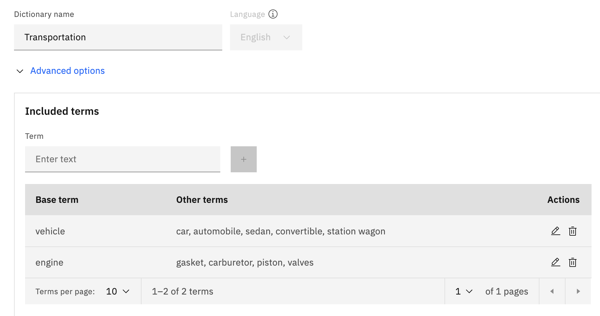
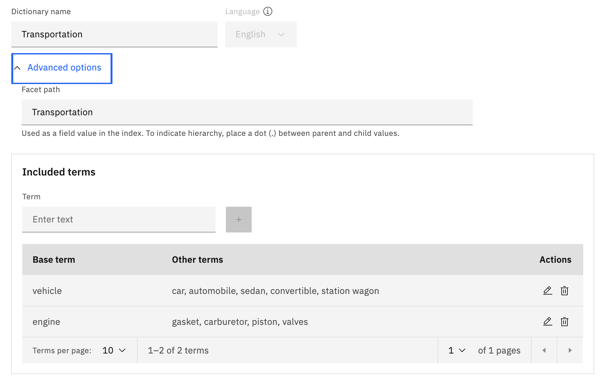
more fixes

diff --git a/domain-dictionary.md b/domain-dictionary.md
@@ -24,15 +24,25 @@ To add dictionary terms one by one, complete the following steps:
 
 1.  From the *Teach domain concepts* section of the *Improvement tools* panel, choose **Dictionaries**.
 1.  Click **New**.
-1.  Name your dictionary, and then choose the language.
-1.  **Optional**: Expand *Advanced options*, and specify edit the facet name for the dictionary. Facets are used to categorize documents. A user can choose a facet type to narrow their search. The dictionary name in lowercase is used as the facet name by default. You might want to change the facet to be uppercase.
+1.  Name your dictionary.
+
+    For example, `Transportation`.
+1.  Choose the language. A dictionary can contain terms in only one language.
+1.  **Optional**: Expand *Advanced options*, and edit the facet name for the dictionary. 
+
+    Facets are used to categorize documents. A user can choose a facet type to narrow their search results. The dictionary name in lowercase is used as the facet name by default. You might want to change the facet to be uppercase.
+
 1.  Enter a term, and then select the **+** button to add it.
+
+    For example `vehicle` and `engine`.
 
     In English dictionaries, specify the dictionary terms in lowercase. Only use uppercase if you want {{site.data.keyword.discoveryshort}} to ignore lowercase mentions of the term when they occur in text. When terms are analyzed to determine whether they are occurrences of the dictionary enrichment, the surface form of the term with uppercase match is used. For example, a `vehicle` entry in the dictionary results in annotations for `vehicle`, `Vehicle`, or `VEHICLE` mentions when they occur in text. For a `Sat` entry in the dictionary, annotations are added for `Sat` or `SAT`, but not for `sat`.
     
     Dictionary matching is case-sensitive for Arabic, Chinese, Korean, Japanese, and Hebrew.
 
 1.  To add synonyms for the term, click the *Edit* icon, and then enter synonyms in the **Other terms** field. Separate multiple synonyms with a comma. Click **Save term**.
+
+    For the `vehicle` term, you can add synonyms such as car,automobile,sedan,convertible,station wagon, and so on, for example. For `engine`, you can add gasket,carburetor,piston,valves.
 
     Be careful not to add too many synonyms and test the impact of any synonyms that you add. When you test, use data that is different from the data you use to derive the synonyms.
     {: tip}
@@ -46,6 +56,53 @@ To add dictionary terms one by one, complete the following steps:
 
 1.  Click **Save dictionary**.
 1.  Choose the collections and fields where you want to apply the dictionary, and then click **Apply**.
+
+## Example
+{: #dictionary-example}
+
+A transportation dictionary is added to a project.
+
+![Transportation dictionary in the product ui](images/dict-transportation.png)
+
+The resulting facet that is created for the dictionary is displayed in the search page.
+
+![Search page with Transportation facet](images/dict-facet.png)
+
+The document where the enrichment is applied contains the following sentence:
+
+```
+Some car fluids can be acidic, such as battery fluid.
+```
+{: screen}
+
+The following JSON snippet illustrates how a Transportation dictionary enrichment mention is stored when the term `car`, which is a synonym for the `vehicle` dictionary entry is found in the document. In this collection, the dictionary enrichment is applied to the `text` field, so the mention is listed in the `entities` array that is in the `enriched_text` array.
+
+```json
+{
+  "enriched_text": [
+    {
+      "entities": [
+        {
+          "model_name": "Dictionary:.Transportation",
+          "mentions": [
+            {
+              "confidence": 1,
+              "location": {
+                "end": 91122,
+                "begin": 91119
+              },
+              "text": "car"
+            }
+          ],
+          "text": "vehicle",
+          "type": "Transportation"
+        }
+      ]
+    }
+  ]
+}
+```
+{: codeblock}
 
 ## Uploading dictionary terms
 {: #dictionary-csv}
@@ -91,53 +148,6 @@ To add dictionary from a CSV file, complete the following steps:
 1.  Click **Upload** to browse for the CSV file that you created earlier.
 1.  Click **Create**.
 1.  Choose the collections and fields where you want to apply the dictionary, and then click **Apply**.
-
-## Example
-{: #dictionary-example}
-
-A transportation dictionary is added to a project.
-
-![Transportation dictionary in the product ui](images/dict-transportation.png)
-
-The resulting facet that is created for the dictionary is displayed in the search page.
-
-
-
-The document where the enrichment is applied contains the following sentence:
-
-```
-Some car fluids can be acidic, such as battery fluid.
-```
-{: screen}
-
-The following JSON snippet illustrates how a Transportation dictionary enrichment mention is stored when the term `car`, which is a synonym for the `vehicle` dictionary entry is found in the document. In this collection, the dictionary enrichment is applied to the `text` field, so the mention is listed in the `entities` array that is in the `enriched_text` array.
-
-```json
-{
-  "enriched_text": [
-    {
-      "entities": [
-        {
-          "model_name": "Dictionary:.transportation",
-          "mentions": [
-            {
-              "confidence": 1,
-              "location": {
-                "end": 91122,
-                "begin": 91119
-              },
-              "text": "car"
-            }
-          ],
-          "text": "vehicle",
-          "type": "transportation"
-        }
-      ]
-    }
-  ]
-}
-```
-{: codeblock}
 
 If you add a dictionary by using the Enrichment API, after you apply the API-generated dictionary enrichment to a field, the dictionary is displayed in the Dictionaries page. However, you cannot edit the API-generated dictionary from the dictionary tool in the product user interface.
 {: note}
